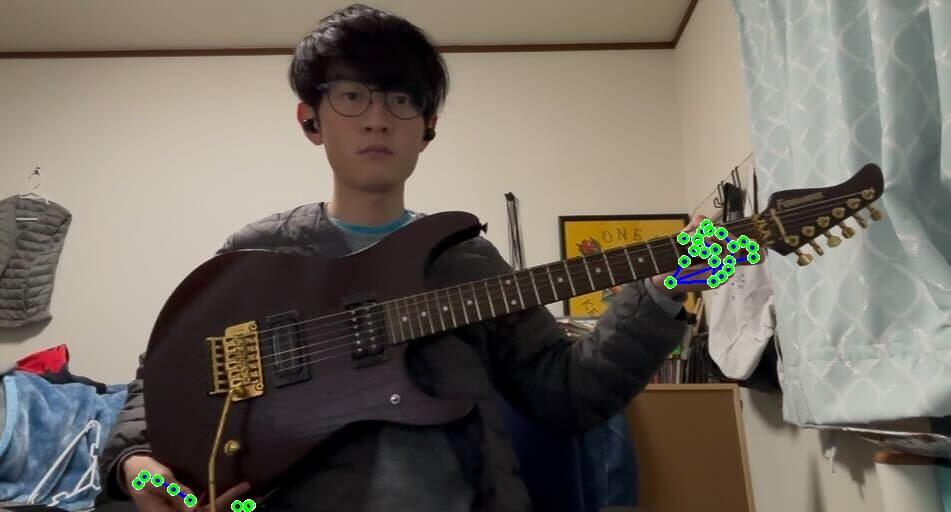
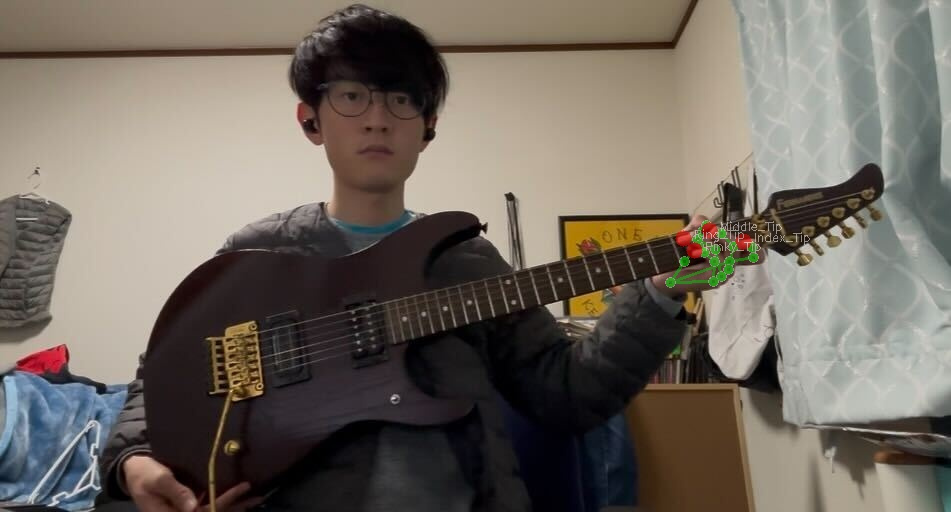
画像認識第一弾 ある程度の精度は確認した

Changed region(s): [[0.7014, 0.4062, 0.8233, 0.5625], [0.122, 0.9062, 0.2135, 1.0], [0.244, 0.9688, 0.2744, 1.0]]

diff --git a/src/detect_hands.py b/src/detect_hands.py
@@ -1,59 +1,84 @@
 import cv2
-import os
+import numpy as np
 import mediapipe as mp
+import os
+
+def get_fret_and_string(tx, ty, board_w, board_h):
+    L_22 = 0.7184
+    relative_pos = (tx / board_w) * L_22
+    if 0 <= relative_pos < 1:
+        fret_num = -12 * np.log2(1 - relative_pos)
+        fret = int(fret_num + 0.5)
+        string = 6 - int(ty / (board_h / 6))
+        return max(1, min(6, string)), fret
+    return None, None
 
 def main():
-    # 1. MediaPipeの準備
+    # 佐藤さんの取得した座標
+    src_pts = np.array([[752, 216], [763, 245], [387, 302], [395, 340]], dtype=np.float32)
+    board_w, board_h = 1000, 200
+    dst_pts = np.array([[0, 0], [0, board_h], [board_w, 0], [board_w, board_h]], dtype=np.float32)
+    M = cv2.getPerspectiveTransform(src_pts, dst_pts)
+
     mp_hands = mp.solutions.hands
-    mp_drawing = mp.solutions.drawing_utils  # 描画用のツール
+    mp_drawing = mp.solutions.drawing_utils
+    hands = mp_hands.Hands(static_image_mode=True, max_num_hands=2, min_detection_confidence=0.5, model_complexity=1)
     
-    hands = mp_hands.Hands(
-        static_image_mode=True, 
-        max_num_hands=2, 
-        min_detection_confidence=0.5
-    )
-
-    # 2. 画像の読み込み
-    input_path = 'data/IMG01.jpg'
+    input_path = 'data/test.jpg'
     output_path = 'data/output.jpg'
-    
-    if not os.path.exists(input_path):
-        print(f"エラー: {input_path} が見つかりません。")
-        return
-
     image = cv2.imread(input_path)
-    # MediaPipe用にRGBへ変換
-    image_rgb = cv2.cvtColor(image, cv2.COLOR_BGR2RGB)
+    if image is None: return
+    
+    h, w, _ = image.shape
+    overlay = image.copy()
+    results = hands.process(cv2.cvtColor(image, cv2.COLOR_BGR2RGB))
 
-    # 3. 解析実行
-    results = hands.process(image_rgb)
-
-    # 4. 結果の描画と保存
     if results.multi_hand_landmarks:
-        print(f"【成功】手が検出されました！ -> {output_path} に保存します")
-        
-        # 描画用に元の画像をコピー
-        annotated_image = image.copy()
-        
         for hand_landmarks in results.multi_hand_landmarks:
-            # 画像の上に「骨格」と「関節」を描画
+            wrist = hand_landmarks.landmark[mp_hands.HandLandmark.WRIST]
+            if wrist.x < 0.5: continue
+
+            # 1. 骨格の描画設定（緑の点と線をはっきりさせる）
+            # 指先（TIP）までしっかり緑の点が出るように指定
             mp_drawing.draw_landmarks(
-                annotated_image,
-                hand_landmarks,
+                overlay, 
+                hand_landmarks, 
                 mp_hands.HAND_CONNECTIONS,
-                mp_drawing.DrawingSpec(color=(0, 255, 0), thickness=2, circle_radius=4), # 関節（緑）
-                mp_drawing.DrawingSpec(color=(255, 0, 0), thickness=2) # 骨格（青）
+                mp_drawing.DrawingSpec(color=(0, 255, 0), thickness=2, circle_radius=3), # 関節の点（緑）
+                mp_drawing.DrawingSpec(color=(0, 200, 0), thickness=2)                 # 骨格の線（緑）
             )
-            
-            # コンソールにも人差し指の座標を表示
-            tip = hand_landmarks.landmark[mp_hands.HandLandmark.INDEX_FINGER_TIP]
-            print(f"人差し指先座標: x={tip.x:.4f}, y={tip.y:.4f}")
 
-        # 結果を画像ファイルとして保存
-        cv2.imwrite(output_path, annotated_image)
-    else:
-        print("手が検出されませんでした。")
+            # 判定に使用する指先（TIP）のインデックス
+            finger_tips = {
+                "Index": mp_hands.HandLandmark.INDEX_FINGER_TIP,
+                "Middle": mp_hands.HandLandmark.MIDDLE_FINGER_TIP,
+                "Ring": mp_hands.HandLandmark.RING_FINGER_TIP,
+                "Pinky": mp_hands.HandLandmark.PINKY_TIP
+            }
 
+            for name, tip_idx in finger_tips.items():
+                tip_lm = hand_landmarks.landmark[tip_idx]
+                
+                # --- 純粋に指先（TIP）そのものを判定座標にする ---
+                px, py = int(tip_lm.x * w), int(tip_lm.y * h)
+                
+                # 2. 判定ポイントを薄い赤で描画（緑の点と重ねて確認しやすくする）
+                # 半透明レイヤーなので、緑の点の上に赤が乗って「ここを判定した」とわかるようになります
+                cv2.circle(overlay, (px, py), 8, (0, 0, 255), -1)
+                cv2.putText(overlay, f"{name}_Tip", (px + 10, py), cv2.FONT_HERSHEY_SIMPLEX, 0.4, (255, 255, 255), 1)
+
+                # 座標変換とフレット計算
+                pt = cv2.perspectiveTransform(np.array([[[px, py]]], dtype=np.float32), M)[0][0]
+                s, f = get_fret_and_string(pt[0], pt[1], board_w, board_h)
+                if s is not None:
+                    print(f"{name}指: {s}弦 {f}フレット")
+
+    # 3. 合成して保存（透明度 0.5）
+    alpha = 0.5
+    output_image = cv2.addWeighted(overlay, alpha, image, 1 - alpha, 0)
+
+    cv2.imwrite(output_path, output_image)
+    print(f"解析完了。output.jpg で緑の点（AI認識）と赤の点（計算位置）が重なっているか確認してください。")
     hands.close()
 
 if __name__ == "__main__":
